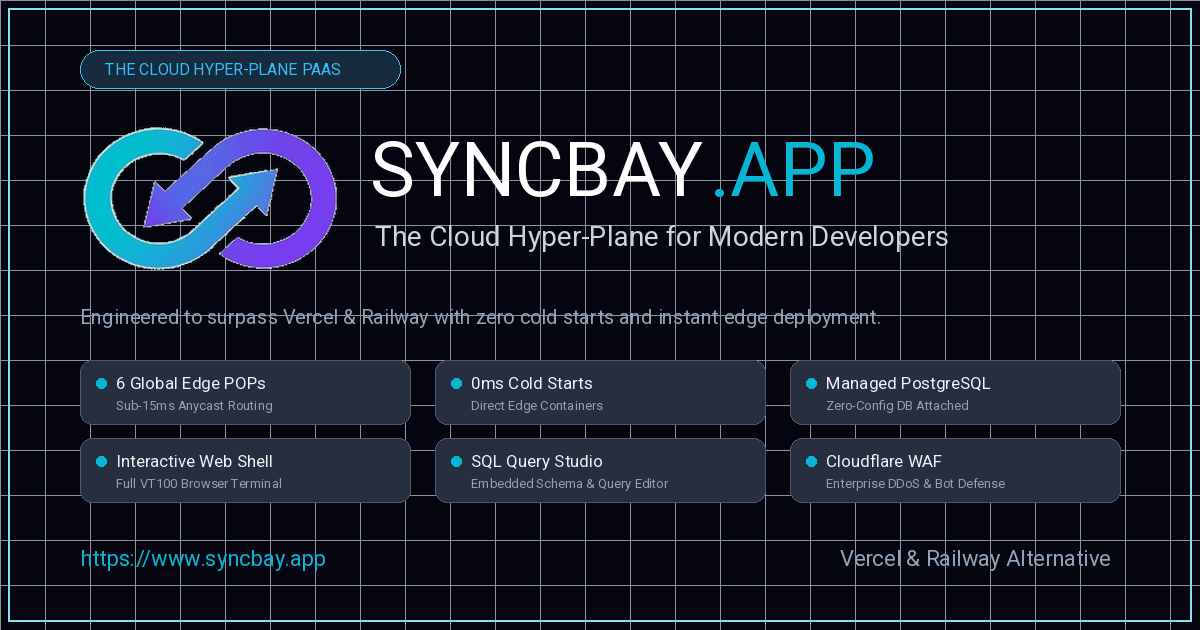
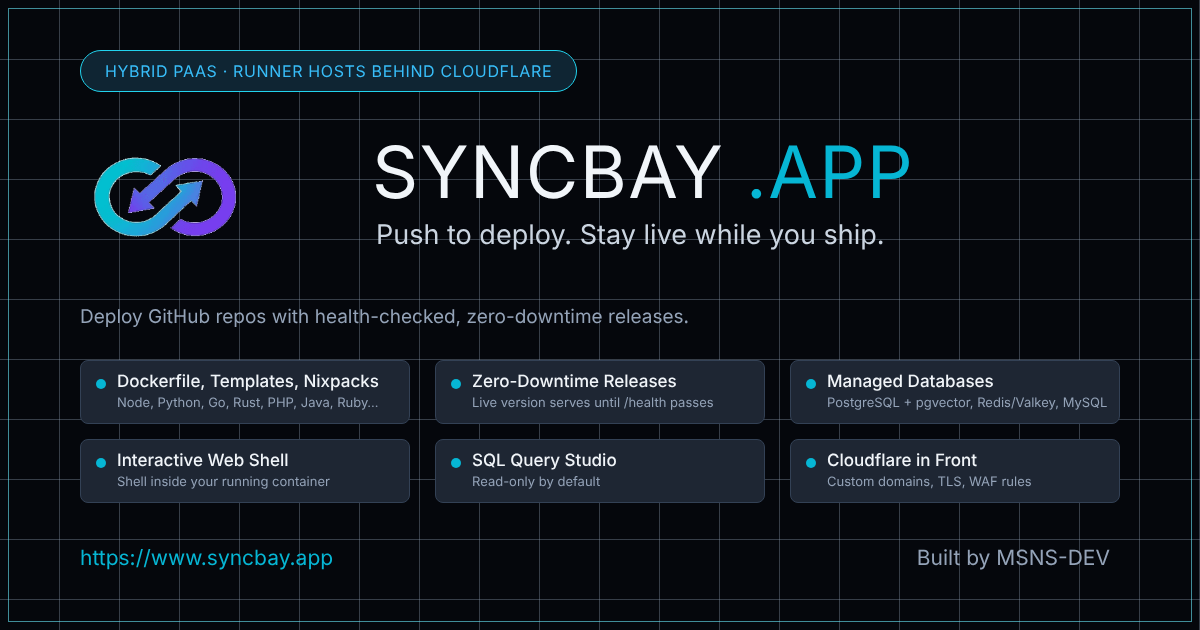
copy(seo): regenerate og-image.png with true claims; sitemap lists /docs instead of the geo telemetry endpoint
Claude-Session: https://claude.ai/code/session_01Pu1U4KhQMNg1b7V3zotA5o

diff --git a/src/app/sitemap.ts b/src/app/sitemap.ts
@@ -33,6 +33,12 @@ export default function sitemap(): MetadataRoute.Sitemap {
       priority: 0.9,
     },
     {
+      url: `${baseUrl}/docs`,
+      lastModified,
+      changeFrequency: "weekly",
+      priority: 0.85,
+    },
+    {
       url: `${baseUrl}/roadmap`,
       lastModified,
       changeFrequency: "weekly",
@@ -49,12 +55,6 @@ export default function sitemap(): MetadataRoute.Sitemap {
       lastModified,
       changeFrequency: "weekly",
       priority: 0.7,
-    },
-    {
-      url: `${baseUrl}/api/geo/locate`,
-      lastModified,
-      changeFrequency: "weekly",
-      priority: 0.6,
     },
   ];
 }
